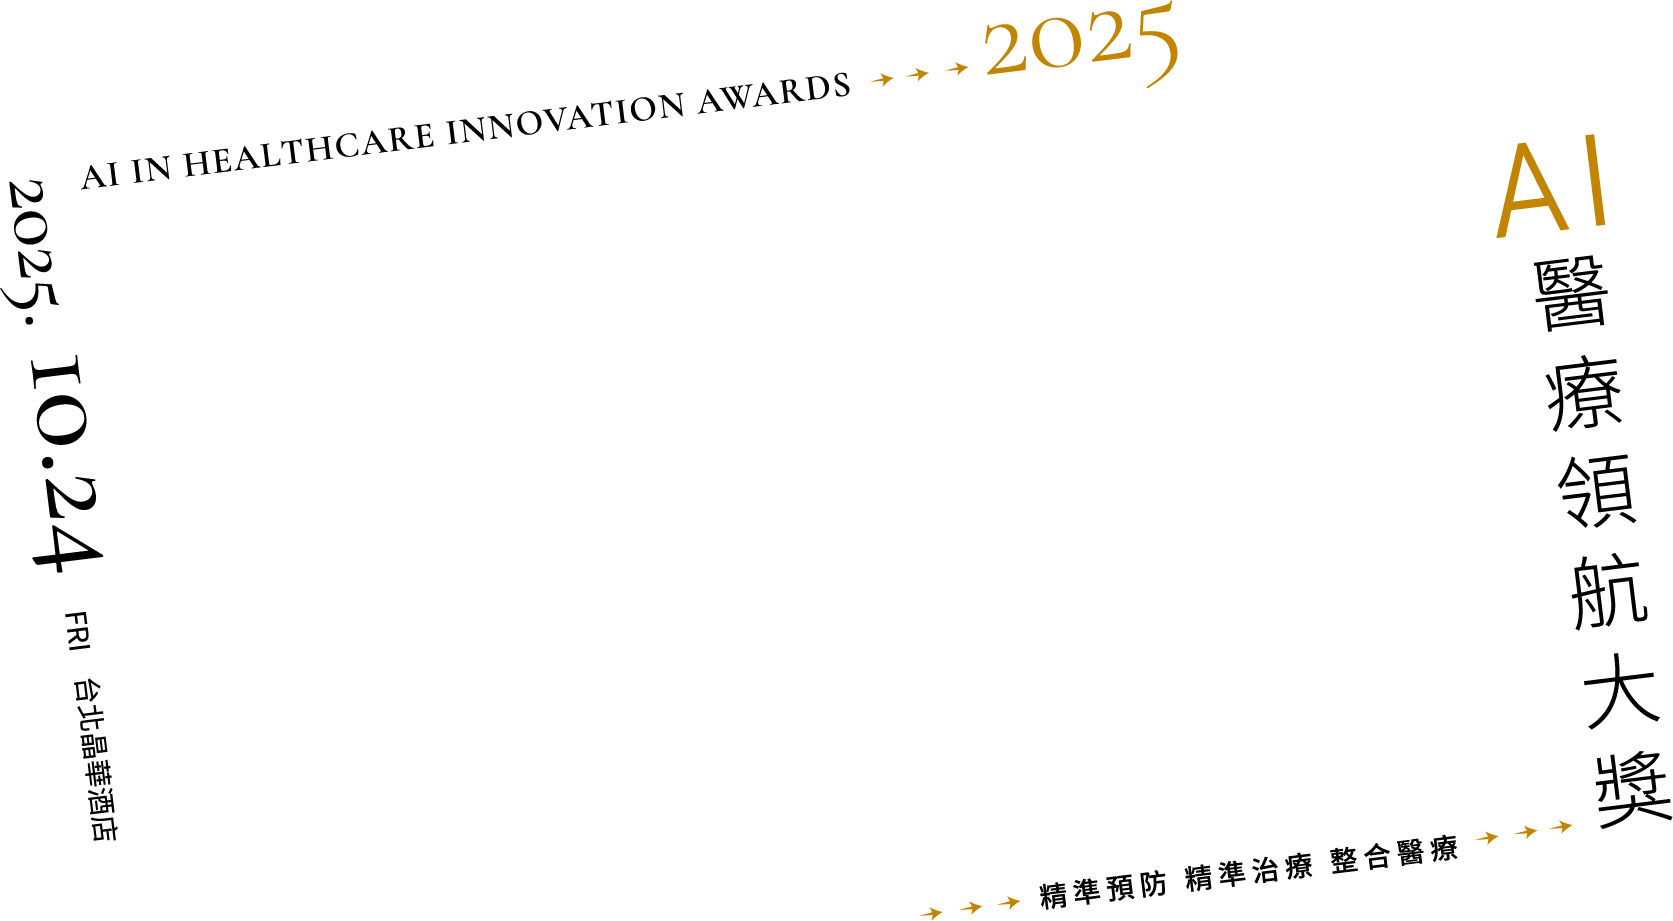
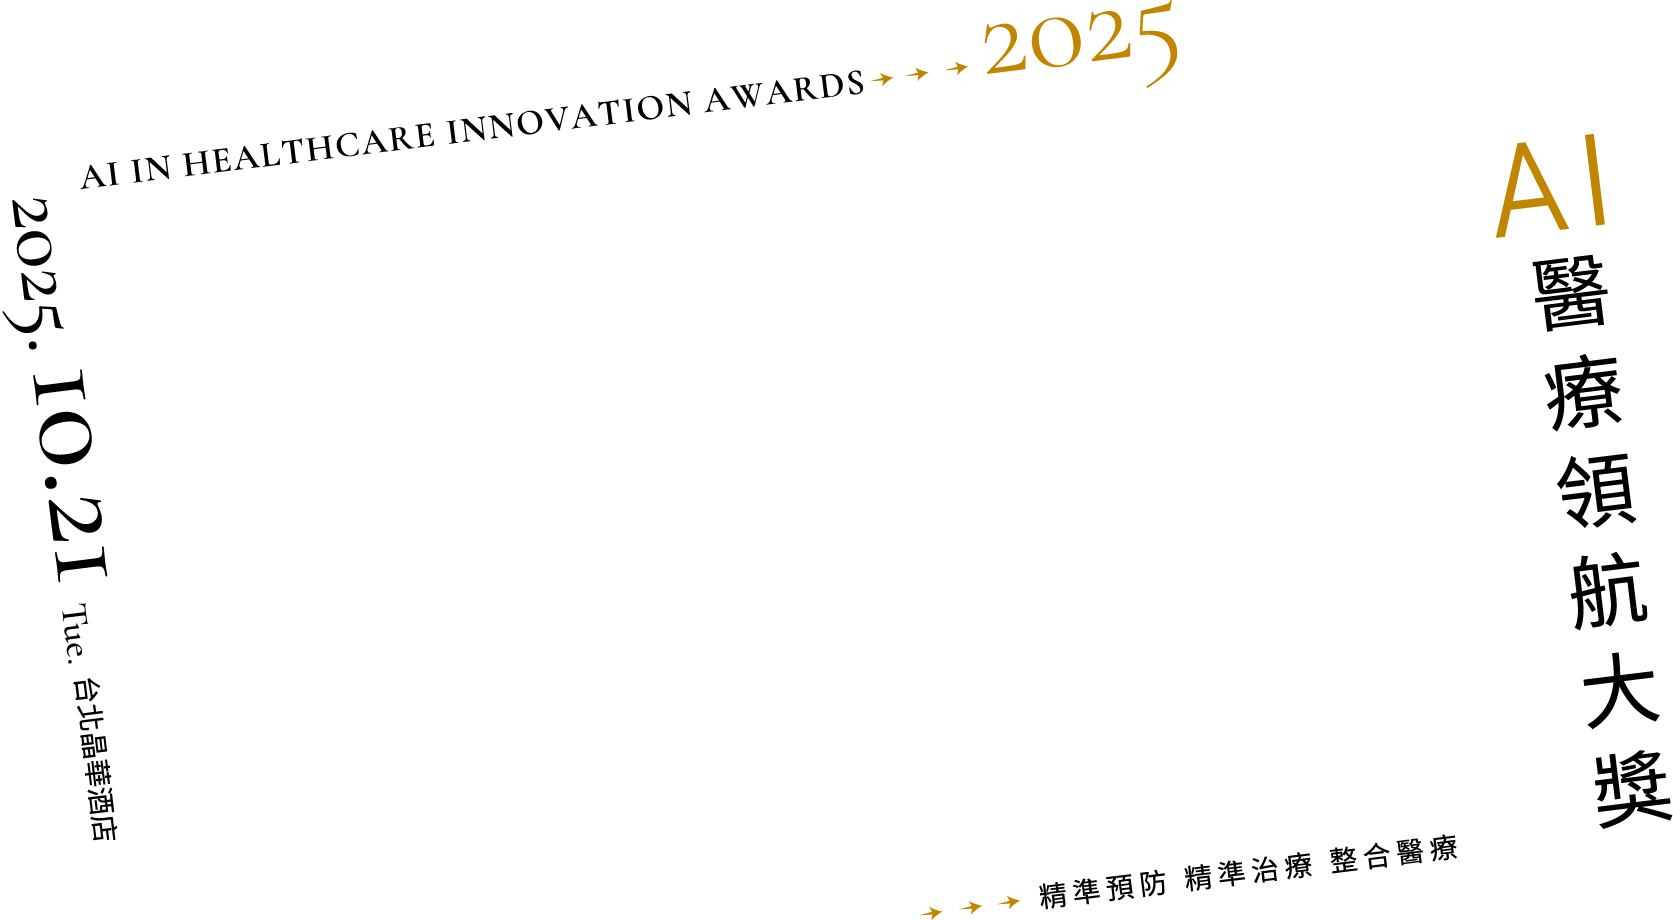
日期修改

diff --git a/index.html b/index.html
@@ -512,7 +512,7 @@
                       <div class='dot'></div>
                       <div class='label'>
                         <div class='time'>
-                          2025.10.24
+                          2025.10.21
                         </div>
                         <div class='detail'>
                           頒獎典禮
